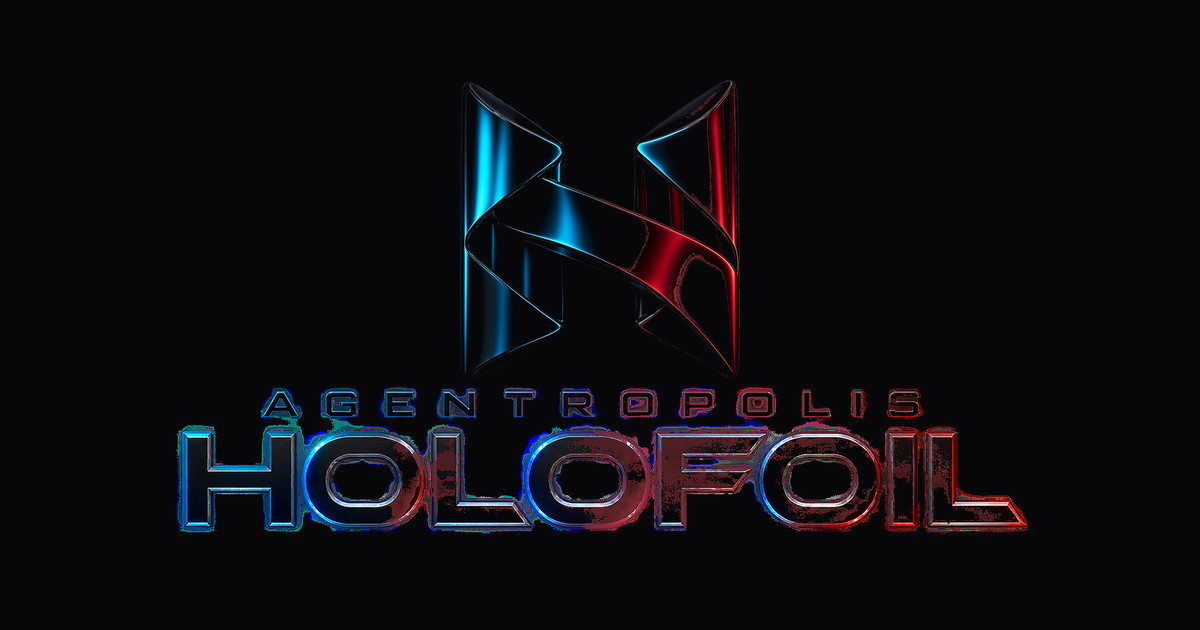
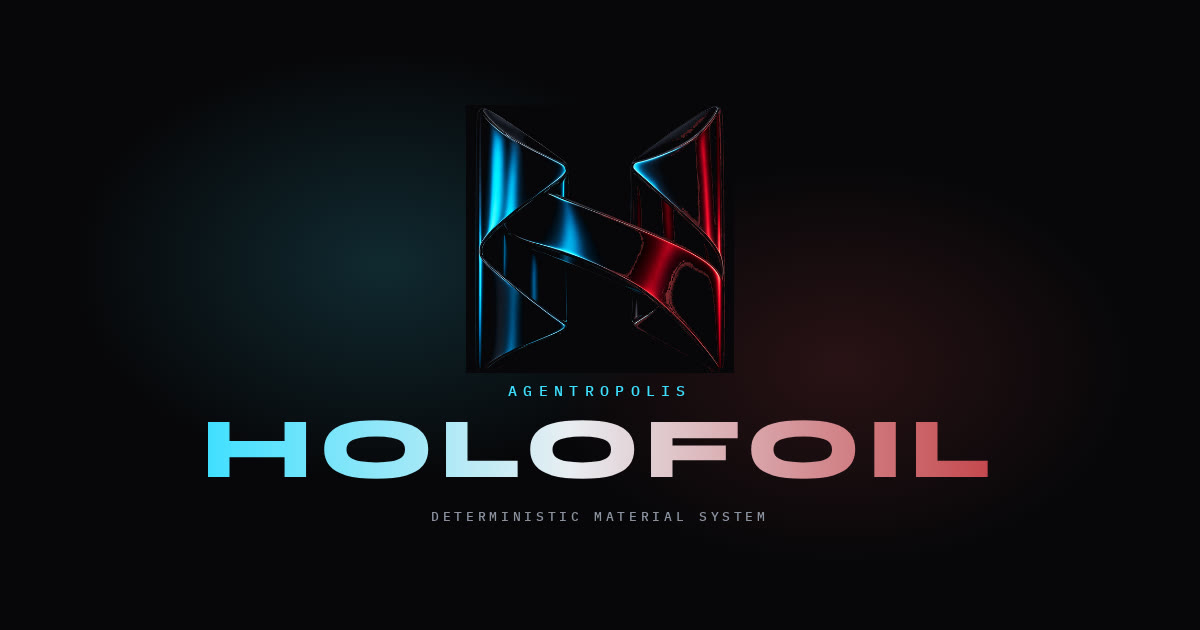
fix: rebuild share cover and browser-tab mark
Exact AGENTROPOLIS / HOLOFOIL lettering on obsidian with cyan-crimson H.
Tab icon is a chunky folded H that reads at 16px.

Changed region(s): [[0.1233, 0.1206, 0.8633, 0.8444]]

diff --git a/src/routes/__root.tsx b/src/routes/__root.tsx
@@ -25,6 +25,8 @@ export const Route = createRootRoute({
       { name: "theme-color", content: "#070709" },
     ],
     links: [
+      { rel: "icon", type: "image/png", sizes: "32x32", href: "/favicon-32.png" },
+      { rel: "icon", type: "image/png", sizes: "48x48", href: "/favicon-48.png" },
       { rel: "icon", type: "image/svg+xml", href: "/favicon.svg" },
       { rel: "stylesheet", href: appCss },
       { rel: "manifest", href: "/__grok/manifest.webmanifest" },
